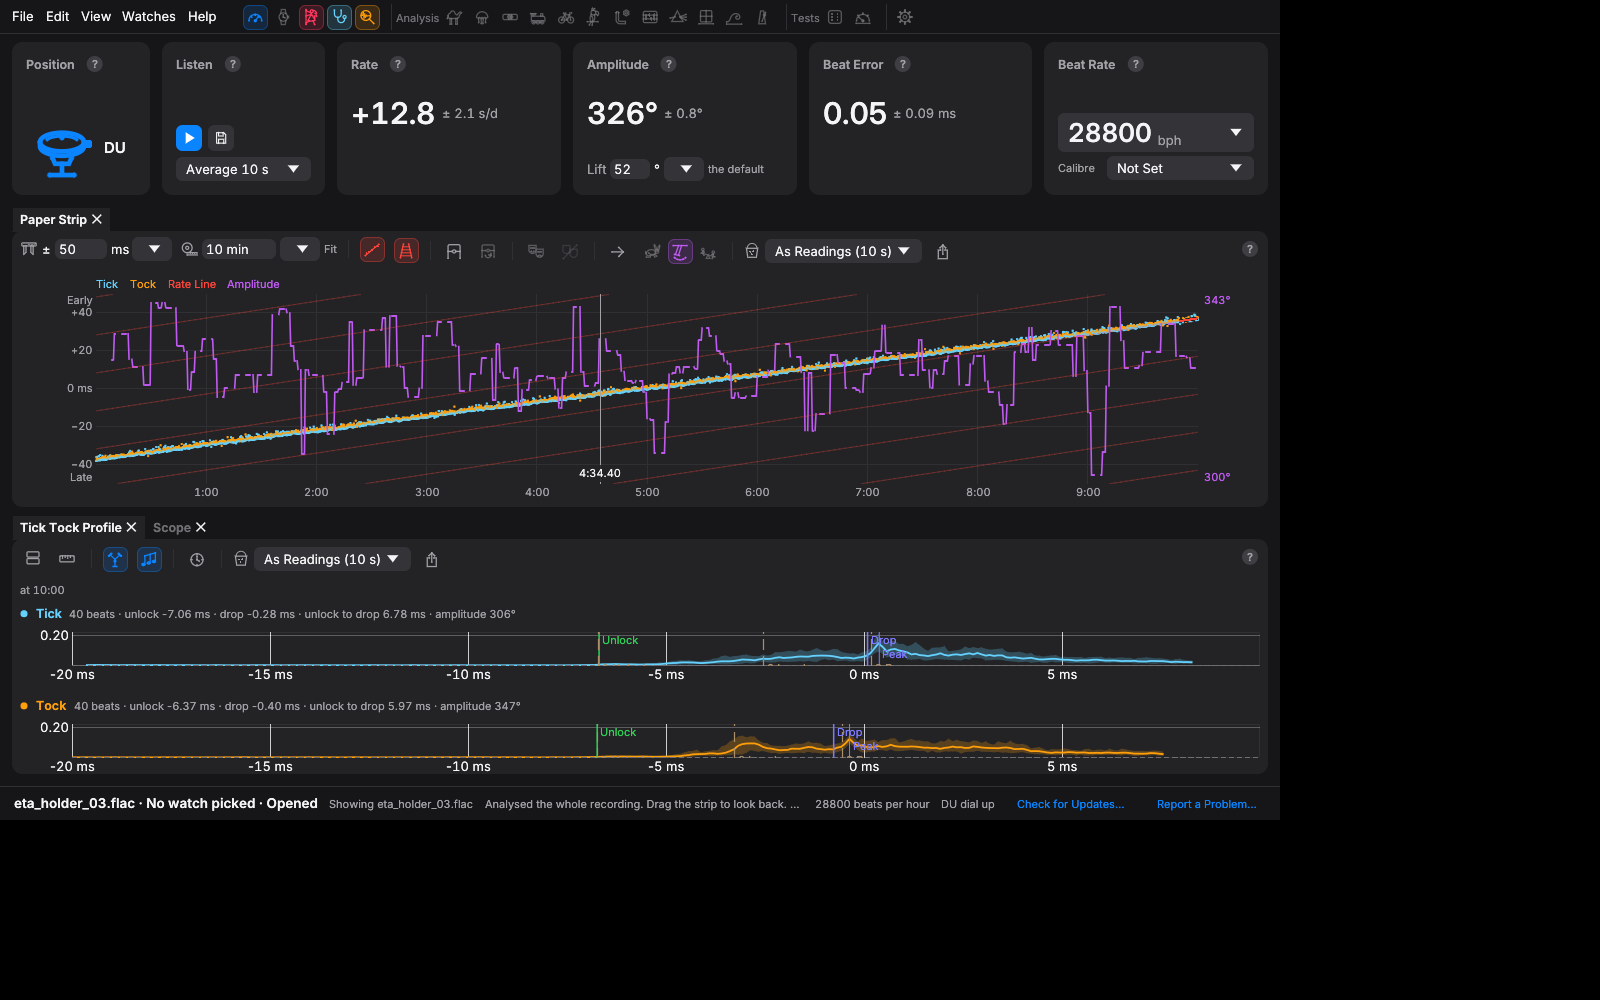
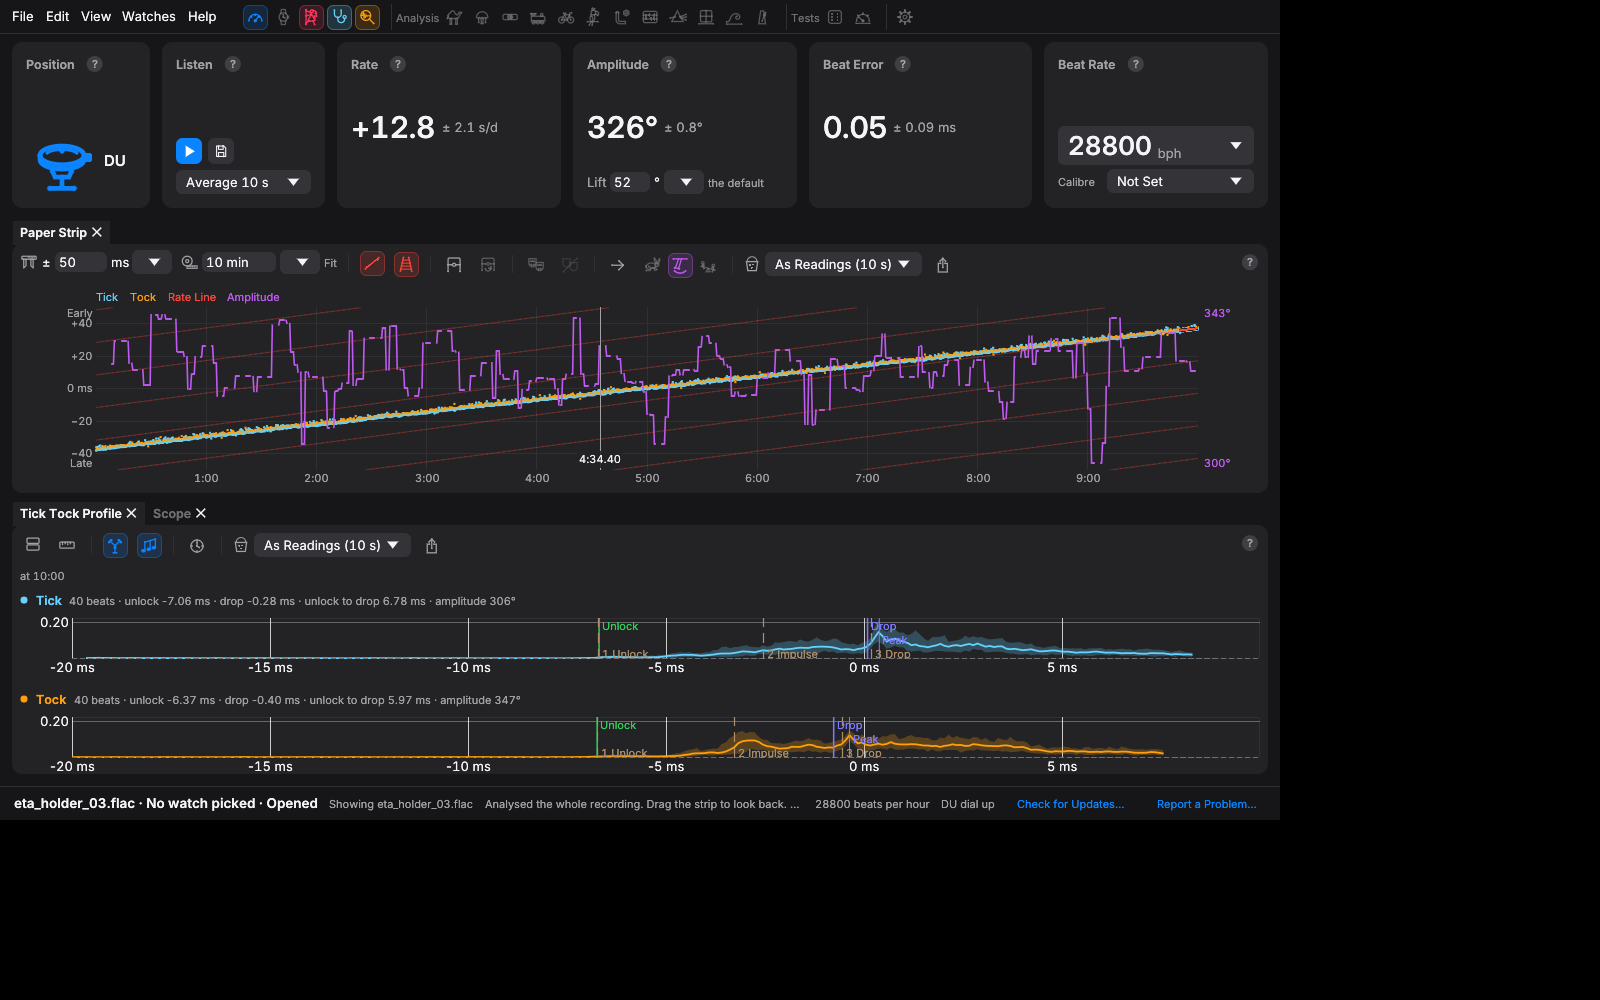
Reading cards: limits and the line under the figure show whole
What limits a reading, and the line under the figure, wrap whole in room
kept for their longest usual wording at the cards' width, so they are
never cut short and the cards stay one height at a width. A figure too
wide for its card is drawn smaller. With no regular beat the cards say
so in short, the sentence with the timing scatter in the hover. The
start screen's card keeps inside a short pane, and a strip too short
for Early and Late names neither.

Claude-Session: https://claude.ai/code/session_01GsSg6RBnTb5YLpmgbJGamZ

diff --git a/crates/timegrapher-app/src/app.rs b/crates/timegrapher-app/src/app.rs
@@ -9267,6 +9267,16 @@ impl TimegrapherApp {
     fn readouts(&self, ui: &mut egui::Ui) -> Readouts {
         let pal = theme::pal(ui);
         let r = self.reading();
+        ui.spacing_mut().item_spacing.x = theme::GAP;
+        let gap = theme::GAP;
+        let total = ui.available_width();
+        // The Position and Listen cards narrower than the four of figures.
+        let narrow = (total * 0.11).clamp(124.0, 160.0);
+        let listen = (total * 0.13).clamp(144.0, 180.0);
+        let wide = ((total - narrow - listen - 5.0 * gap) / 4.0).max(100.0);
+        // The width inside a card of figures, less its margins: the room
+        // kept for whole lines is reckoned at it, the same on every card.
+        let inner = wide - 2.0 * 14.0;
         // Every line of a card is a row of fixed height, whatever is on it
         // or not, so the cards (and every pane under them) never change
         // height with the readings: only with the window's width. What
@@ -9326,9 +9336,23 @@ impl TimegrapherApp {
                     + 6.0
                     + wide(widest.1, egui::TextStyle::Body.resolve(ui.style()))
                     <= ui.available_width();
+            // A figure wider than its card (noise read as beats can give
+            // thousands of s/d) is made smaller to show whole.
+            let unit_w = if beside && !unit.is_empty() {
+                6.0 + wide(&unit, egui::TextStyle::Body.resolve(ui.style()))
+            } else {
+                0.0
+            };
+            let room = ui.available_width() - unit_w;
+            let fig_w = wide(&v, theme::display(FIGURE_PT));
+            let size = if fig_w > room {
+                (FIGURE_PT * room / fig_w).floor().max(12.0)
+            } else {
+                FIGURE_PT
+            };
             let big = |ui: &mut egui::Ui| {
                 let l = ui.add(
-                    egui::Label::new(RichText::new(&v).font(theme::display(FIGURE_PT)).color(c))
+                    egui::Label::new(RichText::new(&v).font(theme::display(size)).color(c))
                         .extend()
                         .sense(egui::Sense::hover()),
                 );
@@ -9354,7 +9378,14 @@ impl TimegrapherApp {
         // A reading whose beats scatter like noise is no watch: no figures
         // then, only a note saying so.
         let heard = r.as_ref().is_none_or(|r| r.watch_heard || r.bph.is_none());
-        let unheard_line = r.as_ref().map(no_regular_beat).unwrap_or_default();
+        // On the cards the fact in short, whole; the sentence with the
+        // timing scatter, as the command line gives it, in the hover.
+        let unheard_line = "No regular beat found".to_string();
+        let unheard_hover = format!(
+            "{}.\n\n{}",
+            r.as_ref().map(no_regular_beat).unwrap_or_default(),
+            help::NO_REGULAR_BEAT
+        );
         let r = r.as_ref().filter(|_| heard);
         let caveats = r.map_or(&[][..], |r| &r.caveats[..]);
         // Each reading's ±, as an analysis of the recording gives them
@@ -9380,9 +9411,9 @@ impl TimegrapherApp {
         // nothing.
         let unheard = |ui: &mut egui::Ui| {
             if heard {
-                note(ui, "", "");
+                whole_lines(ui, "", "", LONGEST_STATUS, inner);
             } else {
-                note(ui, &unheard_line, help::NO_REGULAR_BEAT);
+                whole_lines(ui, &unheard_line, &unheard_hover, LONGEST_STATUS, inner);
             }
         };
         // The cards share one height, the tallest's on the last frame. With
@@ -9428,10 +9459,14 @@ impl TimegrapherApp {
                         ui.label(theme::caption(title).color(pal.text_secondary));
                         theme::help(ui, title, help);
                     });
-                    // A reading card's limits on a line of their own under
-                    // its title, there (empty) or not, every one in the hover.
+                    // A reading card's limits under its title, whole, never
+                    // cut short: they may be what says the figure isn't a
+                    // watch's. Their room is there (empty) or not, as many
+                    // lines as the longest usual limits take at this width,
+                    // so the card's height follows the width alone; only
+                    // limits longer still take more.
                     if facts.is_some() {
-                        note(ui, &short, &long);
+                        whole_lines(ui, &short, &long, LONGEST_LIMITS, inner);
                     }
                     body(ui);
                     // Room for the controls, which go in once every card
@@ -9455,13 +9490,6 @@ impl TimegrapherApp {
                 ));
             }
         };
-        ui.spacing_mut().item_spacing.x = theme::GAP;
-        let gap = theme::GAP;
-        let total = ui.available_width();
-        // The Position and Listen cards narrower than the four of figures.
-        let narrow = (total * 0.11).clamp(124.0, 160.0);
-        let listen = (total * 0.13).clamp(144.0, 180.0);
-        let wide = ((total - narrow - listen - 5.0 * gap) / 4.0).max(100.0);
         let origin = ui.cursor().min;
         let mut cols: Vec<egui::Ui> = [narrow, listen, wide, wide, wide, wide]
             .iter()
@@ -9564,23 +9592,24 @@ impl TimegrapherApp {
                     // Under the figure, two lines: what the reading waits on
                     // (or why it is the position before), and the rate on the
                     // input's own clock or the clock timed to keep.
-                    let status: Option<(String, &str)> = if r.is_none() {
+                    let status: Option<(String, String)> = if r.is_none() {
                         if let Some(left) = self.settling_left() {
                             Some((
                                 format!("settling in the new position, {:.0} s", left.ceil()),
-                                SETTLE_HINT,
+                                SETTLE_HINT.to_string(),
                             ))
                         } else if heard {
-                            Some(("waiting for beats".into(), ""))
+                            Some(("waiting for beats".into(), String::new()))
                         } else {
-                            Some((unheard_line.clone(), help::NO_REGULAR_BEAT))
+                            Some((unheard_line.clone(), unheard_hover.clone()))
                         }
                     } else {
                         self.stopped_in_settle().map(|at| {
                             (
                                 format!("before the move at {}", strip::fmt_time(at)),
                                 "Stopped while the watch settled in its new position, so these \
-                             are the last readings of the position before it.",
+                             are the last readings of the position before it."
+                                    .to_string(),
                             )
                         })
                     };
@@ -9663,12 +9692,15 @@ impl TimegrapherApp {
                         (text, hint)
                     });
                     let (first, second) = match (status, true_clock) {
-                        (Some(s), clock) => (Some((s.0, s.1.to_string())), clock),
+                        (Some(s), clock) => (Some(s), clock),
                         (None, clock) => (clock, None),
                     };
+                    // What the figure waits on, or that no watch is heard,
+                    // whole; True Clock (in the figure's hover too) where
+                    // the line is free.
                     match first {
-                        Some((t, h)) => note(ui, &t, &h),
-                        None => note(ui, "", ""),
+                        Some((t, h)) => whole_lines(ui, &t, &h, LONGEST_STATUS, inner),
+                        None => whole_lines(ui, "", "", LONGEST_STATUS, inner),
                     }
                     match (offer, second) {
                         (Some((text, hint)), _) => row(ui, small_h, &mut |ui| {
@@ -10185,11 +10217,16 @@ impl TimegrapherApp {
     /// being analysed, how far it has got.
     fn empty_state(&mut self, ui: &mut egui::Ui) {
         let pal = theme::pal(ui);
-        ui.add_space((ui.available_height() * 0.16).clamp(16.0, 110.0));
+        // Space above the card, but never so much that the card (as tall as
+        // on the last frame) runs out of the pane.
+        let h_id = ui.id().with("empty state height");
+        let last_h: f32 = ui.data(|d| d.get_temp(h_id)).unwrap_or(0.0);
+        let room = (ui.available_height() - last_h).max(0.0);
+        ui.add_space((ui.available_height() * 0.16).clamp(16.0, 110.0).min(room));
         ui.vertical_centered(|ui| {
             let w = 520.0_f32.min(ui.available_width());
             ui.allocate_ui(Vec2::new(w, 0.0), |ui| {
-                theme::card().fill(pal.card).show(ui, |ui| {
+                let shown = theme::card().fill(pal.card).show(ui, |ui| {
                     ui.set_width(w - 28.0);
                     ui.with_layout(egui::Layout::top_down(egui::Align::Min), |ui| {
                         ui.spacing_mut().item_spacing.y = 10.0;
@@ -10200,6 +10237,11 @@ impl TimegrapherApp {
                         }
                     });
                 });
+                let h = shown.response.rect.height();
+                if h != last_h {
+                    ui.data_mut(|d| d.insert_temp(h_id, h));
+                    ui.ctx().request_repaint();
+                }
             });
         });
     }
@@ -13054,6 +13096,49 @@ impl egui_tiles::Behavior<Pane> for PaneBehavior<'_> {
         }
     }
 }
+
+/// Small text on a reading card, wrapped whole and never cut short, for
+/// lines that may be what says the figure isn't a watch's: the limits
+/// under the title, and the line under the figure. Its room is there
+/// (empty) or not, as many lines as `longest` takes at `inner`, the width
+/// inside every card of figures alike, so the cards' lines stay level and
+/// their height follows the window's width alone; only text longer still
+/// takes more.
+fn whole_lines(ui: &mut egui::Ui, short: &str, long: &str, longest: &str, inner: f32) {
+    let pal = theme::pal(ui);
+    let w = ui.available_width();
+    let font = egui::TextStyle::Small.resolve(ui.style());
+    let lines = |ui: &egui::Ui, text: &str, w: f32| {
+        ui.fonts_mut(|f| {
+            f.layout(text.to_string(), font.clone(), pal.text_secondary, w)
+                .rows
+                .len()
+        })
+    };
+    let n = lines(ui, longest, inner).max(lines(ui, short, w)).max(1);
+    let h = n as f32 * ui.text_style_height(&egui::TextStyle::Small) + 2.0;
+    let (rect, _) = ui.allocate_exact_size(Vec2::new(w, h), egui::Sense::hover());
+    let mut child = ui.new_child(
+        egui::UiBuilder::new()
+            .max_rect(rect)
+            .layout(egui::Layout::top_down(egui::Align::Min)),
+    );
+    if !short.is_empty() {
+        let l = child
+            .add(egui::Label::new(RichText::new(short).small().color(pal.text_secondary)).wrap());
+        if !long.is_empty() {
+            l.on_hover_text(long);
+        }
+    }
+}
+
+/// The longest limits a reading card usually names, as on noise taken for
+/// beats: the card keeps room for them at every width.
+const LONGEST_LIMITS: &str = "9 s of beats · 25 of 66 expected beats found";
+
+/// The longest line a reading card gives under its figure that must show
+/// whole: the card keeps room for it at every width.
+const LONGEST_STATUS: &str = "settling in the new position, 20 s";
 
 /// What the settling after a move is, wherever it is shown.
 const SETTLE_HINT: &str = "For the first 10 seconds after the watch is put in a new position \
@@ -18650,6 +18735,47 @@ mod tests {
         }
     }
 
+    /// A card's limits show whole, wrapped, never cut short, in room that
+    /// is the same whether they are there or not: at the narrowest card
+    /// and a wide one.
+    #[test]
+    fn a_cards_limits_show_whole_in_room_kept_for_them() {
+        let ctx = themed();
+        let noise = "9 s of beats · 25 of 66 expected beats found";
+        for w in [92.0, 190.0] {
+            let mut heights = Vec::new();
+            for short in ["", "12 s of beats", noise] {
+                let out = ctx.run(egui::RawInput::default(), |ctx| {
+                    egui::CentralPanel::default().show(ctx, |ui| {
+                        let rect = egui::Rect::from_min_size(ui.cursor().min, Vec2::new(w, 400.0));
+                        let mut child = ui.new_child(
+                            egui::UiBuilder::new()
+                                .max_rect(rect)
+                                .layout(egui::Layout::top_down(egui::Align::Min)),
+                        );
+                        let top = child.cursor().top();
+                        whole_lines(&mut child, short, "", LONGEST_LIMITS, w);
+                        heights.push(child.cursor().top() - top);
+                    });
+                });
+                let drawn: String = out
+                    .shapes
+                    .iter()
+                    .filter_map(|c| match &c.shape {
+                        egui::Shape::Text(t) => Some(t.galley.text().to_string()),
+                        _ => None,
+                    })
+                    .collect();
+                assert!(!drawn.contains('…'), "{drawn}");
+                assert_eq!(drawn.replace('\n', " ").trim(), short, "at {w} pt");
+            }
+            assert!(
+                heights.iter().all(|&h| h == heights[0]),
+                "{heights:?} at {w} pt"
+            );
+        }
+    }
+
     /// The reading cards are one height at a width, whatever they show:
     /// waiting, reading, settling, or with their limits named.
     #[test]
@@ -18688,10 +18814,28 @@ mod tests {
         settling.session.start_settle(55.0);
         let mut masked = synthetic(60.0, 0.0);
         masked.mask(5.0, 30.0);
+        // Hiss with the beat rate set: a reading of whatever peaks there
+        // are, with its limits named.
+        let mut noise = TimegrapherApp::with_devices(Vec::new(), None);
+        noise.bph = Some(28_800);
+        noise.reset_session(48000, "noise".into());
+        let mut seed = 12_345_u32;
+        let hiss: Vec<f32> = (0..48_000 * 20)
+            .map(|_| {
+                seed = seed.wrapping_mul(1_664_525).wrapping_add(1_013_904_223);
+                (seed >> 8) as f32 / (1 << 24) as f32 * 0.02 - 0.01
+            })
+            .collect();
+        let live = noise.live.as_mut().unwrap();
+        for b in hiss.chunks(960) {
+            live.push(b);
+        }
+        noise.poll();
+        assert!(noise.reading().is_some_and(|r| !r.watch_heard));
         for w in [800.0, 1280.0, 1900.0] {
             let h = height(&waiting, w);
             assert!(h > 0.0);
-            for app in [&reading, &settling, &masked] {
+            for app in [&reading, &settling, &masked, &noise] {
                 assert_eq!(height(app, w), h, "at {w} pt wide");
             }
         }

diff --git a/crates/timegrapher-app/src/strip.rs b/crates/timegrapher-app/src/strip.rs
@@ -890,8 +890,16 @@ pub fn draw_strip(
             Align2::LEFT_TOP,
         )
     };
-    painter.text(early_at, early_align, "Early", font.clone(), text);
-    painter.text(late_at, late_align, "Late", font.clone(), text);
+    // Too short a strip for both to stand apart names neither.
+    let ends = if view.horizontal {
+        r.height()
+    } else {
+        r.width()
+    } > 2.0 * font.size + 4.0;
+    if ends {
+        painter.text(early_at, early_align, "Early", font.clone(), text);
+        painter.text(late_at, late_align, "Late", font.clone(), text);
+    }
     // Time lines at whole seconds, minutes or hours, about 90 points apart.
     let along_px = if view.horizontal {
         r.width()

diff --git a/docs/app.md b/docs/app.md
@@ -339,8 +339,8 @@ standard errors of their 2 s windows in the averaging time. The rate's ±
 comes from the scatter of 10 s windows over the run so far (back to a
 break or a move, up to five minutes), scaled to the averaging time; it
 needs about 30 s of unbroken beats. What the ± can't show is named, as a
-plain fact, on the line under the reading's caption, with a sentence on
-hover (and the whole list there, where the line is too short for it): "12 s of beats" when the beats span under 10 s, "540 of 600
+plain fact, whole, under the reading's caption, with a sentence on
+hover: "12 s of beats" when the beats span under 10 s, "540 of 600
 expected beats found" when under 95% were found, "3% of beats clipped"
 when over 1% clip (amplitude and beat error), a beat rate set that differs from the one heard, and breaks
 in listening in the stretch (such as the computer sleeping). When no calibre or lift angle is set, "the default"
@@ -1296,13 +1296,18 @@ Stopped during a move's settling time, the rate card gives the reading
 from before the move and says so.
 
 **The cards keep their height.** Every line on a reading card has its
-place whether it shows anything or not: the caption, the line of what
-limits the reading, the figure and its unit (under it on a card too
-narrow for the widest figure), and the lines under the figure. A line
-too long for the card is cut short, its whole in the hover; True Clock
-is in the Rate figure's hover too. So the cards, and every pane under
-them, change height only with the window's width, never with the
-readings.
+place whether it shows anything or not: the caption, what limits the
+reading, the figure and its unit (under it on a card too narrow for the
+widest figure), and the lines under the figure. What limits the reading
+and the line under the figure always show whole, wrapped: each has room
+for its longest usual wording at the card's width, so a narrow window
+gives taller cards. With no regular beat, the cards say "No regular beat
+found" and give the full sentence, with the timing scatter, in its
+hover. A figure too wide for its card is drawn smaller. The
+Rate card's last line (True Clock, or the input clock timed to keep) is
+cut short where it doesn't fit, its whole in the hover; True Clock is in
+the Rate figure's hover too. So the cards, and every pane under them,
+change height only with the window's width, never with the readings.
 
 Each saved recording is a folder named after the start time, then the
 watch's name and the calibre when they are set by the first save
